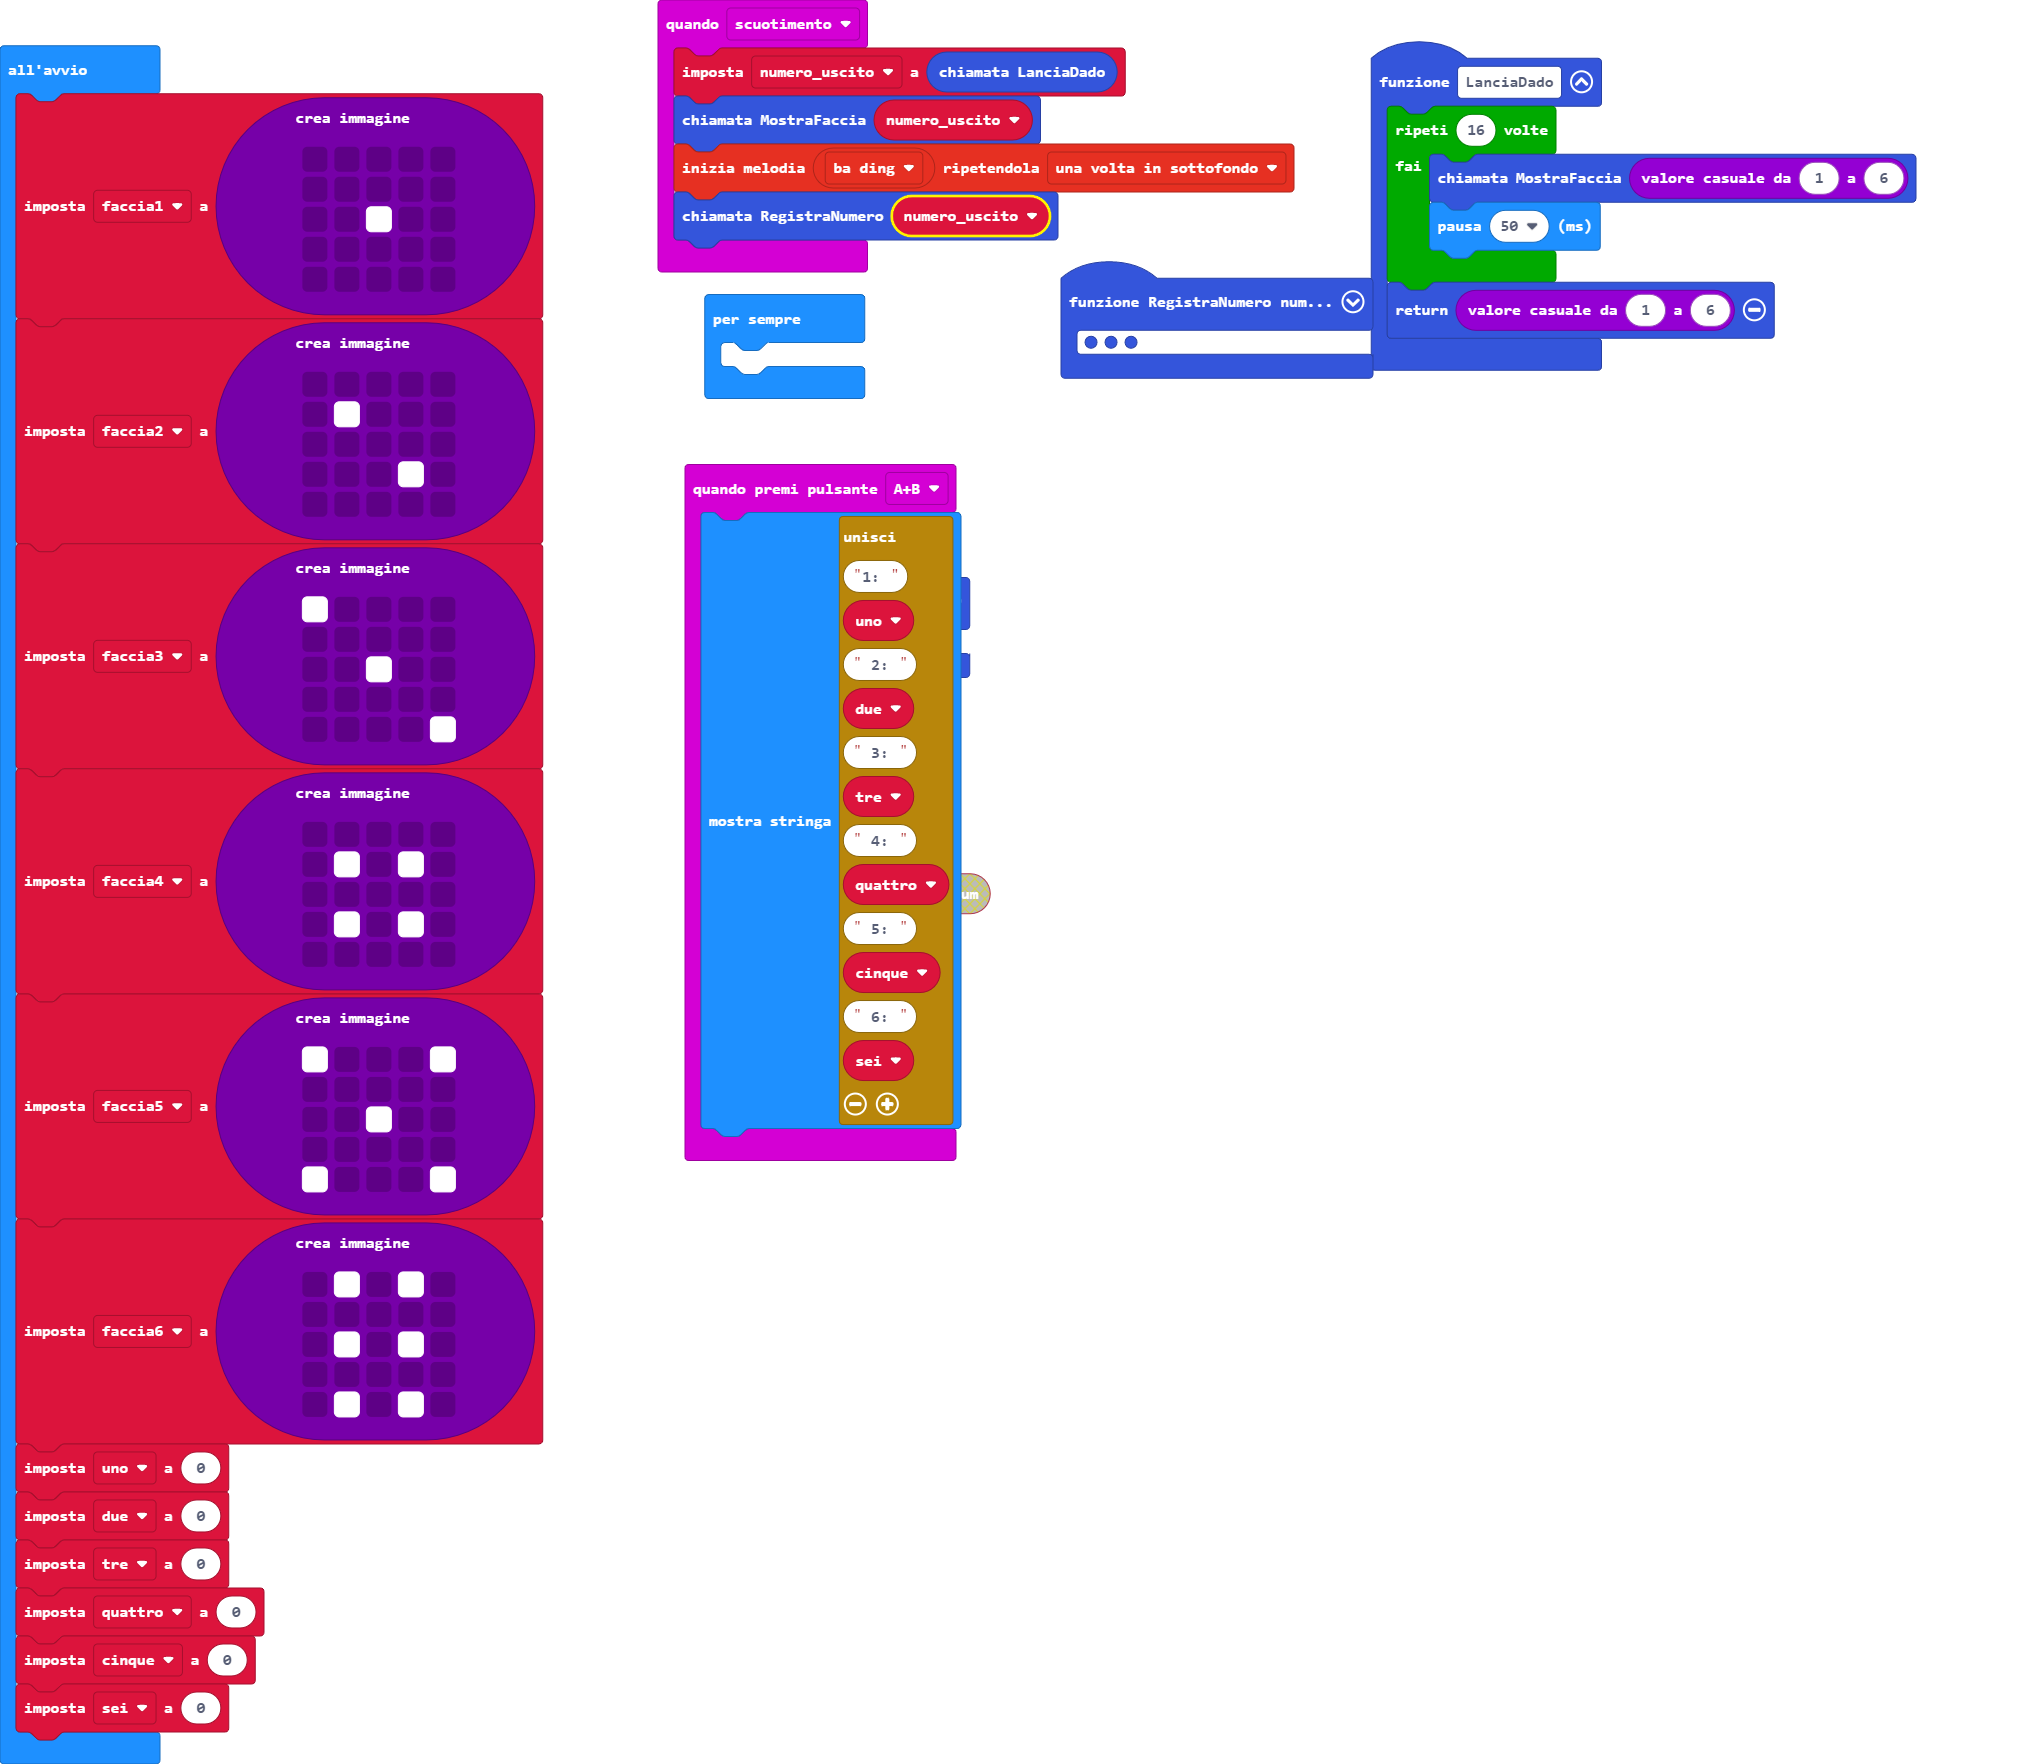
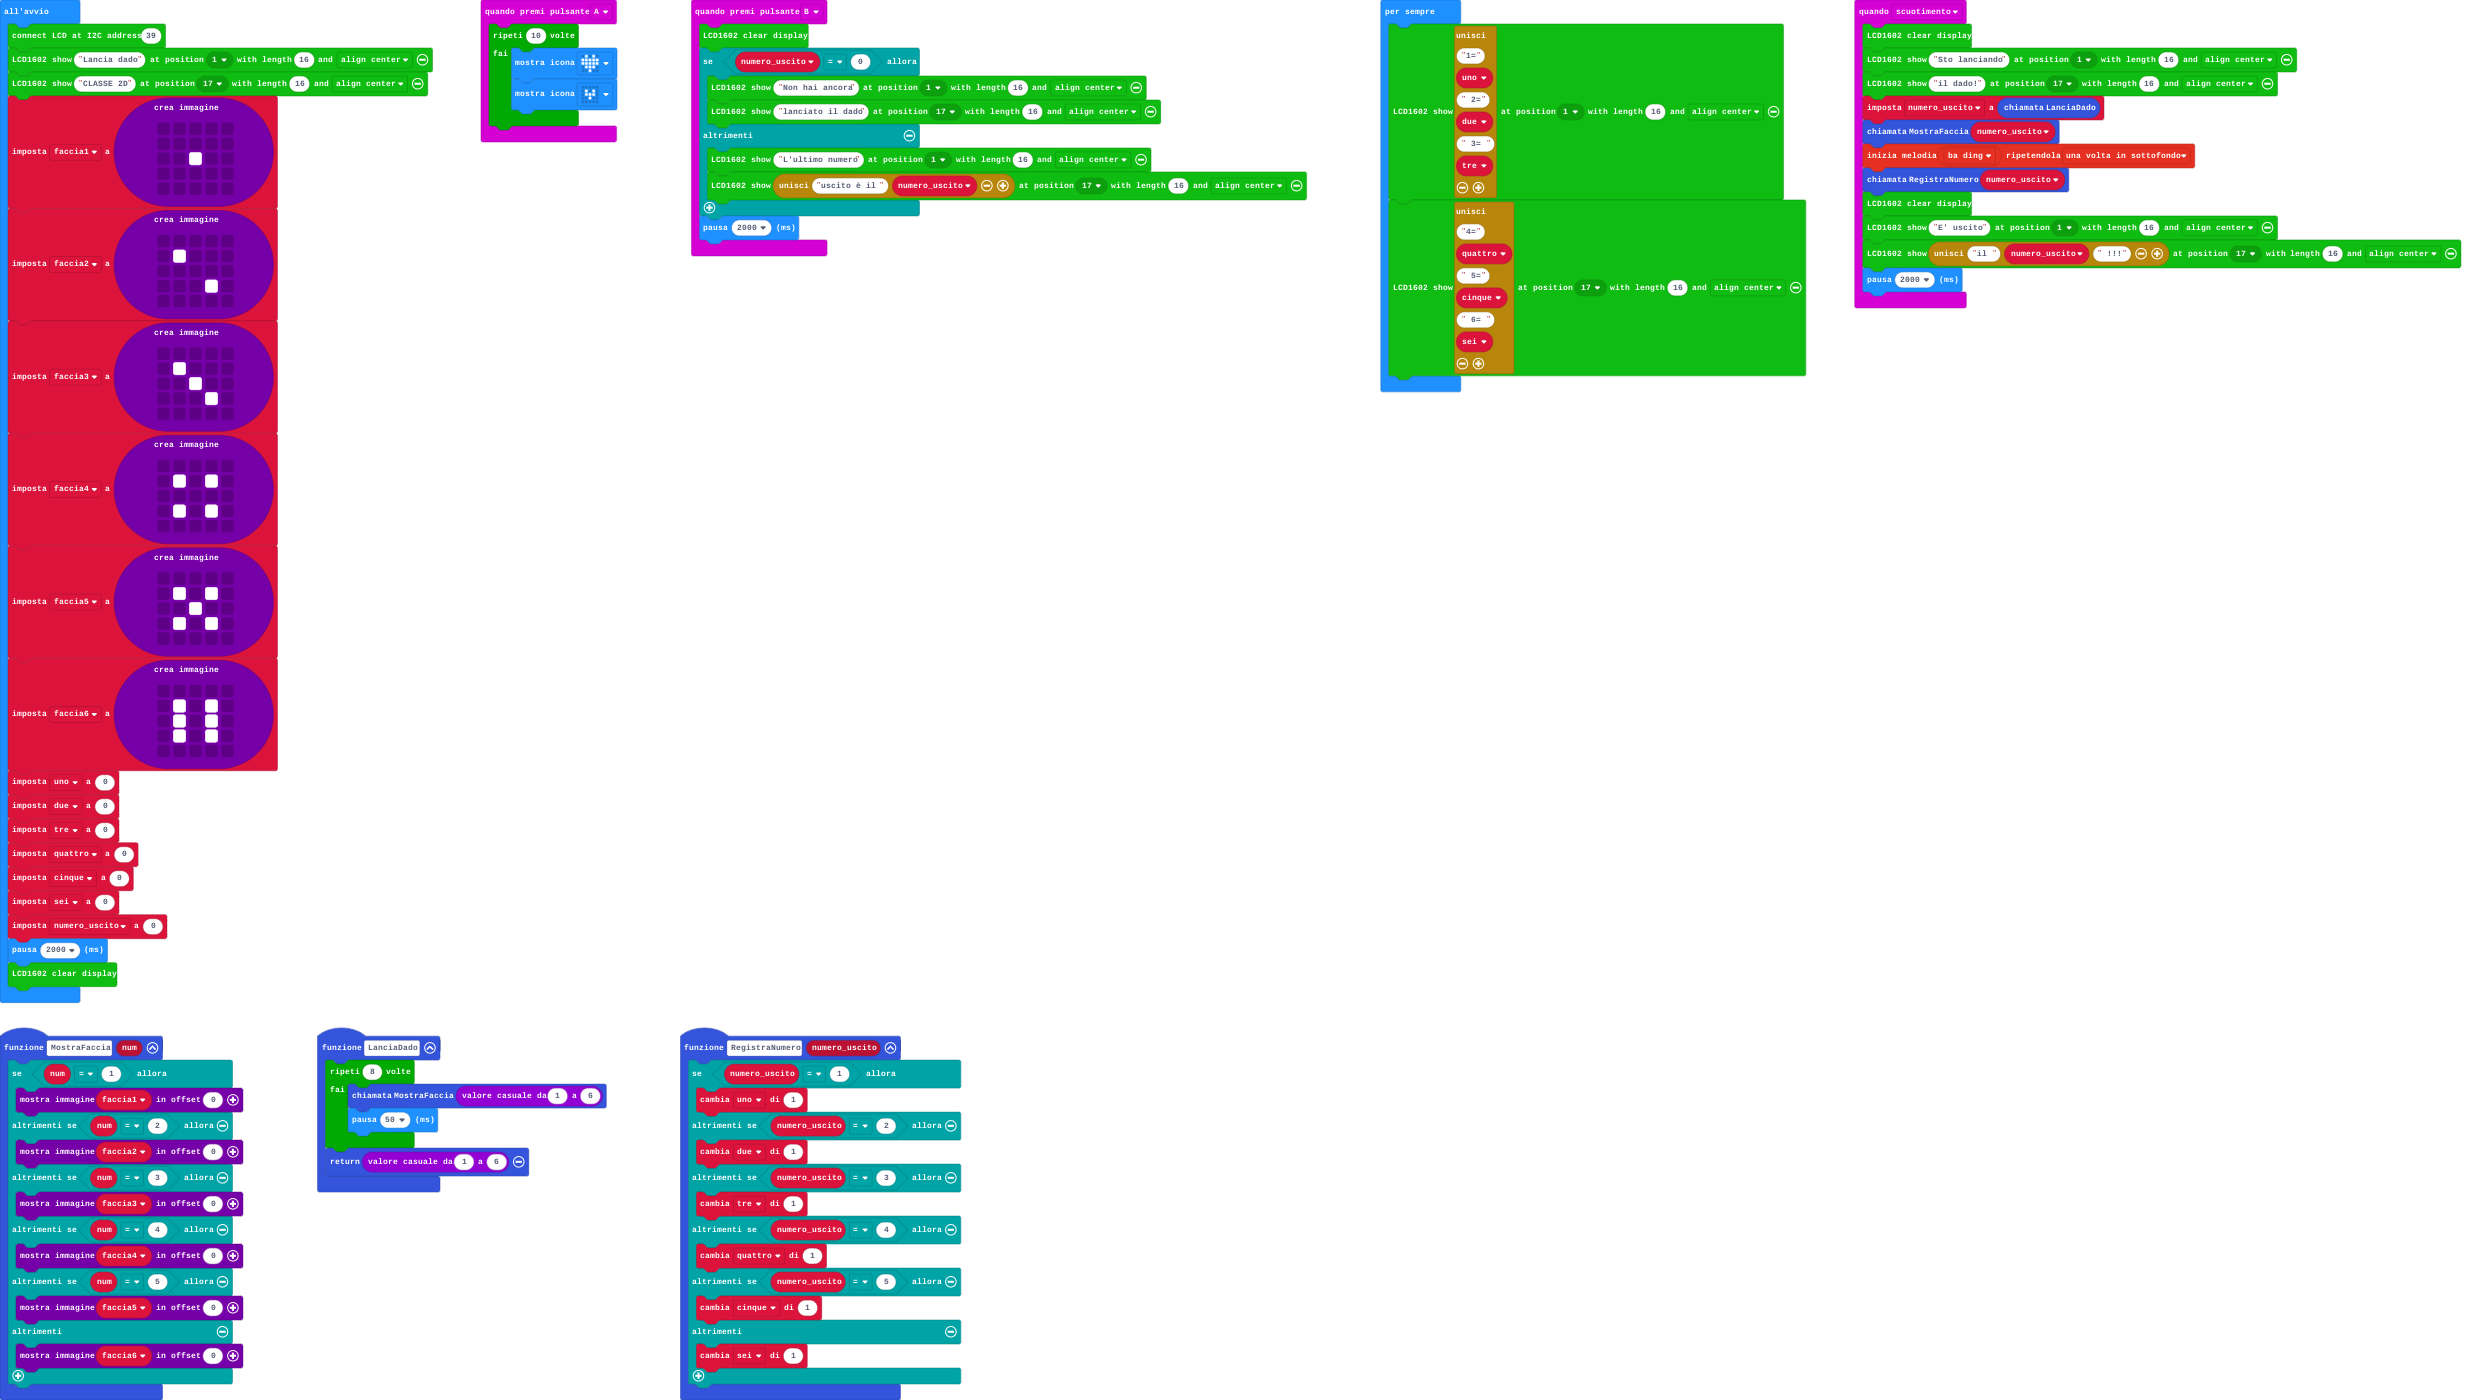
Aggiunto schermo I2C 16x02

diff --git a/main.ts b/main.ts
@@ -1,3 +1,9 @@
+input.onButtonPressed(Button.A, function () {
+    for (let index = 0; index < 10; index++) {
+        basic.showIcon(IconNames.Heart)
+        basic.showIcon(IconNames.SmallHeart)
+    }
+})
 function RegistraNumero (numero_uscito: number) {
     if (numero_uscito == 1) {
         uno += 1
@@ -14,16 +20,31 @@ function RegistraNumero (numero_uscito: number) {
     }
 }
 input.onGesture(Gesture.Shake, function () {
+    makerbit.clearLcd1602()
+    makerbit.showStringOnLcd1602("Sto lanciando", makerbit.position1602(LcdPosition1602.Pos1), 16, TextOption.AlignCenter)
+    makerbit.showStringOnLcd1602("il dado!", makerbit.position1602(LcdPosition1602.Pos17), 16, TextOption.AlignCenter)
     numero_uscito = LanciaDado()
     MostraFaccia(numero_uscito)
     music.startMelody(music.builtInMelody(Melodies.BaDing), MelodyOptions.OnceInBackground)
     RegistraNumero(numero_uscito)
+    makerbit.clearLcd1602()
+    makerbit.showStringOnLcd1602("E' uscito", makerbit.position1602(LcdPosition1602.Pos1), 16, TextOption.AlignCenter)
+    makerbit.showStringOnLcd1602("il " + numero_uscito + " !!!", makerbit.position1602(LcdPosition1602.Pos17), 16, TextOption.AlignCenter)
+    basic.pause(2000)
 })
-input.onButtonPressed(Button.AB, function () {
-    basic.showString("1: " + uno + " 2: " + due + " 3: " + tre + " 4: " + quattro + " 5: " + cinque + " 6: " + sei)
+input.onButtonPressed(Button.B, function () {
+    makerbit.clearLcd1602()
+    if (numero_uscito == 0) {
+        makerbit.showStringOnLcd1602("Non hai ancora", makerbit.position1602(LcdPosition1602.Pos1), 16, TextOption.AlignCenter)
+        makerbit.showStringOnLcd1602("lanciato il dado", makerbit.position1602(LcdPosition1602.Pos17), 16, TextOption.AlignCenter)
+    } else {
+        makerbit.showStringOnLcd1602("L'ultimo numero", makerbit.position1602(LcdPosition1602.Pos1), 16, TextOption.AlignCenter)
+        makerbit.showStringOnLcd1602("uscito è il " + numero_uscito, makerbit.position1602(LcdPosition1602.Pos17), 16, TextOption.AlignCenter)
+    }
+    basic.pause(2000)
 })
 function LanciaDado () {
-    for (let index = 0; index < 16; index++) {
+    for (let index = 0; index < 8; index++) {
         MostraFaccia(randint(1, 6))
         basic.pause(50)
     }
@@ -45,18 +66,15 @@ function MostraFaccia (num: number) {
     }
 }
 let numero_uscito = 0
-let sei = 0
-let cinque = 0
-let quattro = 0
-let tre = 0
-let due = 0
-let uno = 0
 let faccia6: Image = null
 let faccia5: Image = null
 let faccia4: Image = null
 let faccia3: Image = null
 let faccia2: Image = null
 let faccia1: Image = null
+makerbit.connectLcd(39)
+makerbit.showStringOnLcd1602("Lancia dado", makerbit.position1602(LcdPosition1602.Pos1), 16, TextOption.AlignCenter)
+makerbit.showStringOnLcd1602("CLASSE 2D", makerbit.position1602(LcdPosition1602.Pos17), 16, TextOption.AlignCenter)
 faccia1 = images.createImage(`
     . . . . .
     . . . . .
@@ -72,11 +90,11 @@ faccia2 = images.createImage(`
     . . . . .
     `)
 faccia3 = images.createImage(`
-    # . . . .
     . . . . .
+    . # . . .
     . . # . .
+    . . . # .
     . . . . .
-    . . . . #
     `)
 faccia4 = images.createImage(`
     . . . . .
@@ -86,25 +104,29 @@ faccia4 = images.createImage(`
     . . . . .
     `)
 faccia5 = images.createImage(`
-    # . . . #
     . . . . .
+    . # . # .
     . . # . .
+    . # . # .
     . . . . .
-    # . . . #
     `)
 faccia6 = images.createImage(`
-    . # . # .
     . . . . .
     . # . # .
-    . . . . .
     . # . # .
+    . # . # .
+    . . . . .
     `)
-uno = 0
-due = 0
-tre = 0
-quattro = 0
-cinque = 0
-sei = 0
+let uno = 0
+let due = 0
+let tre = 0
+let quattro = 0
+let cinque = 0
+let sei = 0
+numero_uscito = 0
+basic.pause(2000)
+makerbit.clearLcd1602()
 basic.forever(function () {
-	
+    makerbit.showStringOnLcd1602("1=" + uno + " 2=" + due + " 3= " + tre, makerbit.position1602(LcdPosition1602.Pos1), 16, TextOption.AlignCenter)
+    makerbit.showStringOnLcd1602("4=" + quattro + " 5=" + cinque + " 6= " + sei, makerbit.position1602(LcdPosition1602.Pos17), 16, TextOption.AlignCenter)
 })

diff --git a/main.py b/main.py
@@ -1,3 +1,109 @@
+def on_button_pressed_a():
+    for index in range(10):
+        basic.show_icon(IconNames.HEART)
+        basic.show_icon(IconNames.SMALL_HEART)
+input.on_button_pressed(Button.A, on_button_pressed_a)
+
+def RegistraNumero(numero_uscito: number):
+    global uno, due, tre, quattro, cinque, sei
+    if numero_uscito == 1:
+        uno += 1
+    elif numero_uscito == 2:
+        due += 1
+    elif numero_uscito == 3:
+        tre += 1
+    elif numero_uscito == 4:
+        quattro += 1
+    elif numero_uscito == 5:
+        cinque += 1
+    else:
+        sei += 1
+
+def on_gesture_shake():
+    global numero_uscito2
+    makerbit.clear_lcd1602()
+    makerbit.show_string_on_lcd1602("Sto lanciando",
+        makerbit.position1602(LcdPosition1602.POS1),
+        16,
+        TextOption.ALIGN_CENTER)
+    makerbit.show_string_on_lcd1602("il dado!",
+        makerbit.position1602(LcdPosition1602.POS17),
+        16,
+        TextOption.ALIGN_CENTER)
+    numero_uscito2 = LanciaDado()
+    MostraFaccia(numero_uscito2)
+    music.start_melody(music.built_in_melody(Melodies.BA_DING),
+        MelodyOptions.ONCE_IN_BACKGROUND)
+    RegistraNumero(numero_uscito2)
+    makerbit.clear_lcd1602()
+    makerbit.show_string_on_lcd1602("E' uscito",
+        makerbit.position1602(LcdPosition1602.POS1),
+        16,
+        TextOption.ALIGN_CENTER)
+    makerbit.show_string_on_lcd1602("il " + str(numero_uscito2) + " !!!",
+        makerbit.position1602(LcdPosition1602.POS17),
+        16,
+        TextOption.ALIGN_CENTER)
+    basic.pause(2000)
+input.on_gesture(Gesture.SHAKE, on_gesture_shake)
+
+def on_button_pressed_b():
+    makerbit.clear_lcd1602()
+    if numero_uscito2 == 0:
+        makerbit.show_string_on_lcd1602("Non hai ancora",
+            makerbit.position1602(LcdPosition1602.POS1),
+            16,
+            TextOption.ALIGN_CENTER)
+        makerbit.show_string_on_lcd1602("lanciato il dado",
+            makerbit.position1602(LcdPosition1602.POS17),
+            16,
+            TextOption.ALIGN_CENTER)
+    else:
+        makerbit.show_string_on_lcd1602("L'ultimo numero",
+            makerbit.position1602(LcdPosition1602.POS1),
+            16,
+            TextOption.ALIGN_CENTER)
+        makerbit.show_string_on_lcd1602("uscito è il " + str(numero_uscito2),
+            makerbit.position1602(LcdPosition1602.POS17),
+            16,
+            TextOption.ALIGN_CENTER)
+    basic.pause(2000)
+input.on_button_pressed(Button.B, on_button_pressed_b)
+
+def LanciaDado():
+    for index2 in range(8):
+        MostraFaccia(randint(1, 6))
+        basic.pause(50)
+    return randint(1, 6)
+def MostraFaccia(num: number):
+    if num == 1:
+        faccia1.show_image(0)
+    elif num == 2:
+        faccia2.show_image(0)
+    elif num == 3:
+        faccia3.show_image(0)
+    elif num == 4:
+        faccia4.show_image(0)
+    elif num == 5:
+        faccia5.show_image(0)
+    else:
+        faccia6.show_image(0)
+numero_uscito2 = 0
+faccia6: Image = None
+faccia5: Image = None
+faccia4: Image = None
+faccia3: Image = None
+faccia2: Image = None
+faccia1: Image = None
+makerbit.connect_lcd(39)
+makerbit.show_string_on_lcd1602("Lancia dado",
+    makerbit.position1602(LcdPosition1602.POS1),
+    16,
+    TextOption.ALIGN_CENTER)
+makerbit.show_string_on_lcd1602("CLASSE 2D",
+    makerbit.position1602(LcdPosition1602.POS17),
+    16,
+    TextOption.ALIGN_CENTER)
 faccia1 = images.create_image("""
     . . . . .
         . . . . .
@@ -5,14 +111,58 @@ faccia1 = images.create_image("""
         . . . . .
         . . . . .
 """)
-faccia1 = images.create_image("""
+faccia2 = images.create_image("""
     . . . . .
+        . # . . .
         . . . . .
-        . . # . .
-        . . . . .
+        . . . # .
         . . . . .
 """)
+faccia3 = images.create_image("""
+    . . . . .
+        . # . . .
+        . . # . .
+        . . . # .
+        . . . . .
+""")
+faccia4 = images.create_image("""
+    . . . . .
+        . # . # .
+        . . . . .
+        . # . # .
+        . . . . .
+""")
+faccia5 = images.create_image("""
+    . . . . .
+        . # . # .
+        . . # . .
+        . # . # .
+        . . . . .
+""")
+faccia6 = images.create_image("""
+    . . . . .
+        . # . # .
+        . # . # .
+        . # . # .
+        . . . . .
+""")
+uno = 0
+due = 0
+tre = 0
+quattro = 0
+cinque = 0
+sei = 0
+numero_uscito2 = 0
+basic.pause(2000)
+makerbit.clear_lcd1602()
 
 def on_forever():
-    pass
+    makerbit.show_string_on_lcd1602("1=" + str(uno) + " 2=" + str(due) + " 3= " + str(tre),
+        makerbit.position1602(LcdPosition1602.POS1),
+        16,
+        TextOption.ALIGN_CENTER)
+    makerbit.show_string_on_lcd1602("4=" + str(quattro) + " 5=" + str(cinque) + " 6= " + str(sei),
+        makerbit.position1602(LcdPosition1602.POS17),
+        16,
+        TextOption.ALIGN_CENTER)
 basic.forever(on_forever)
